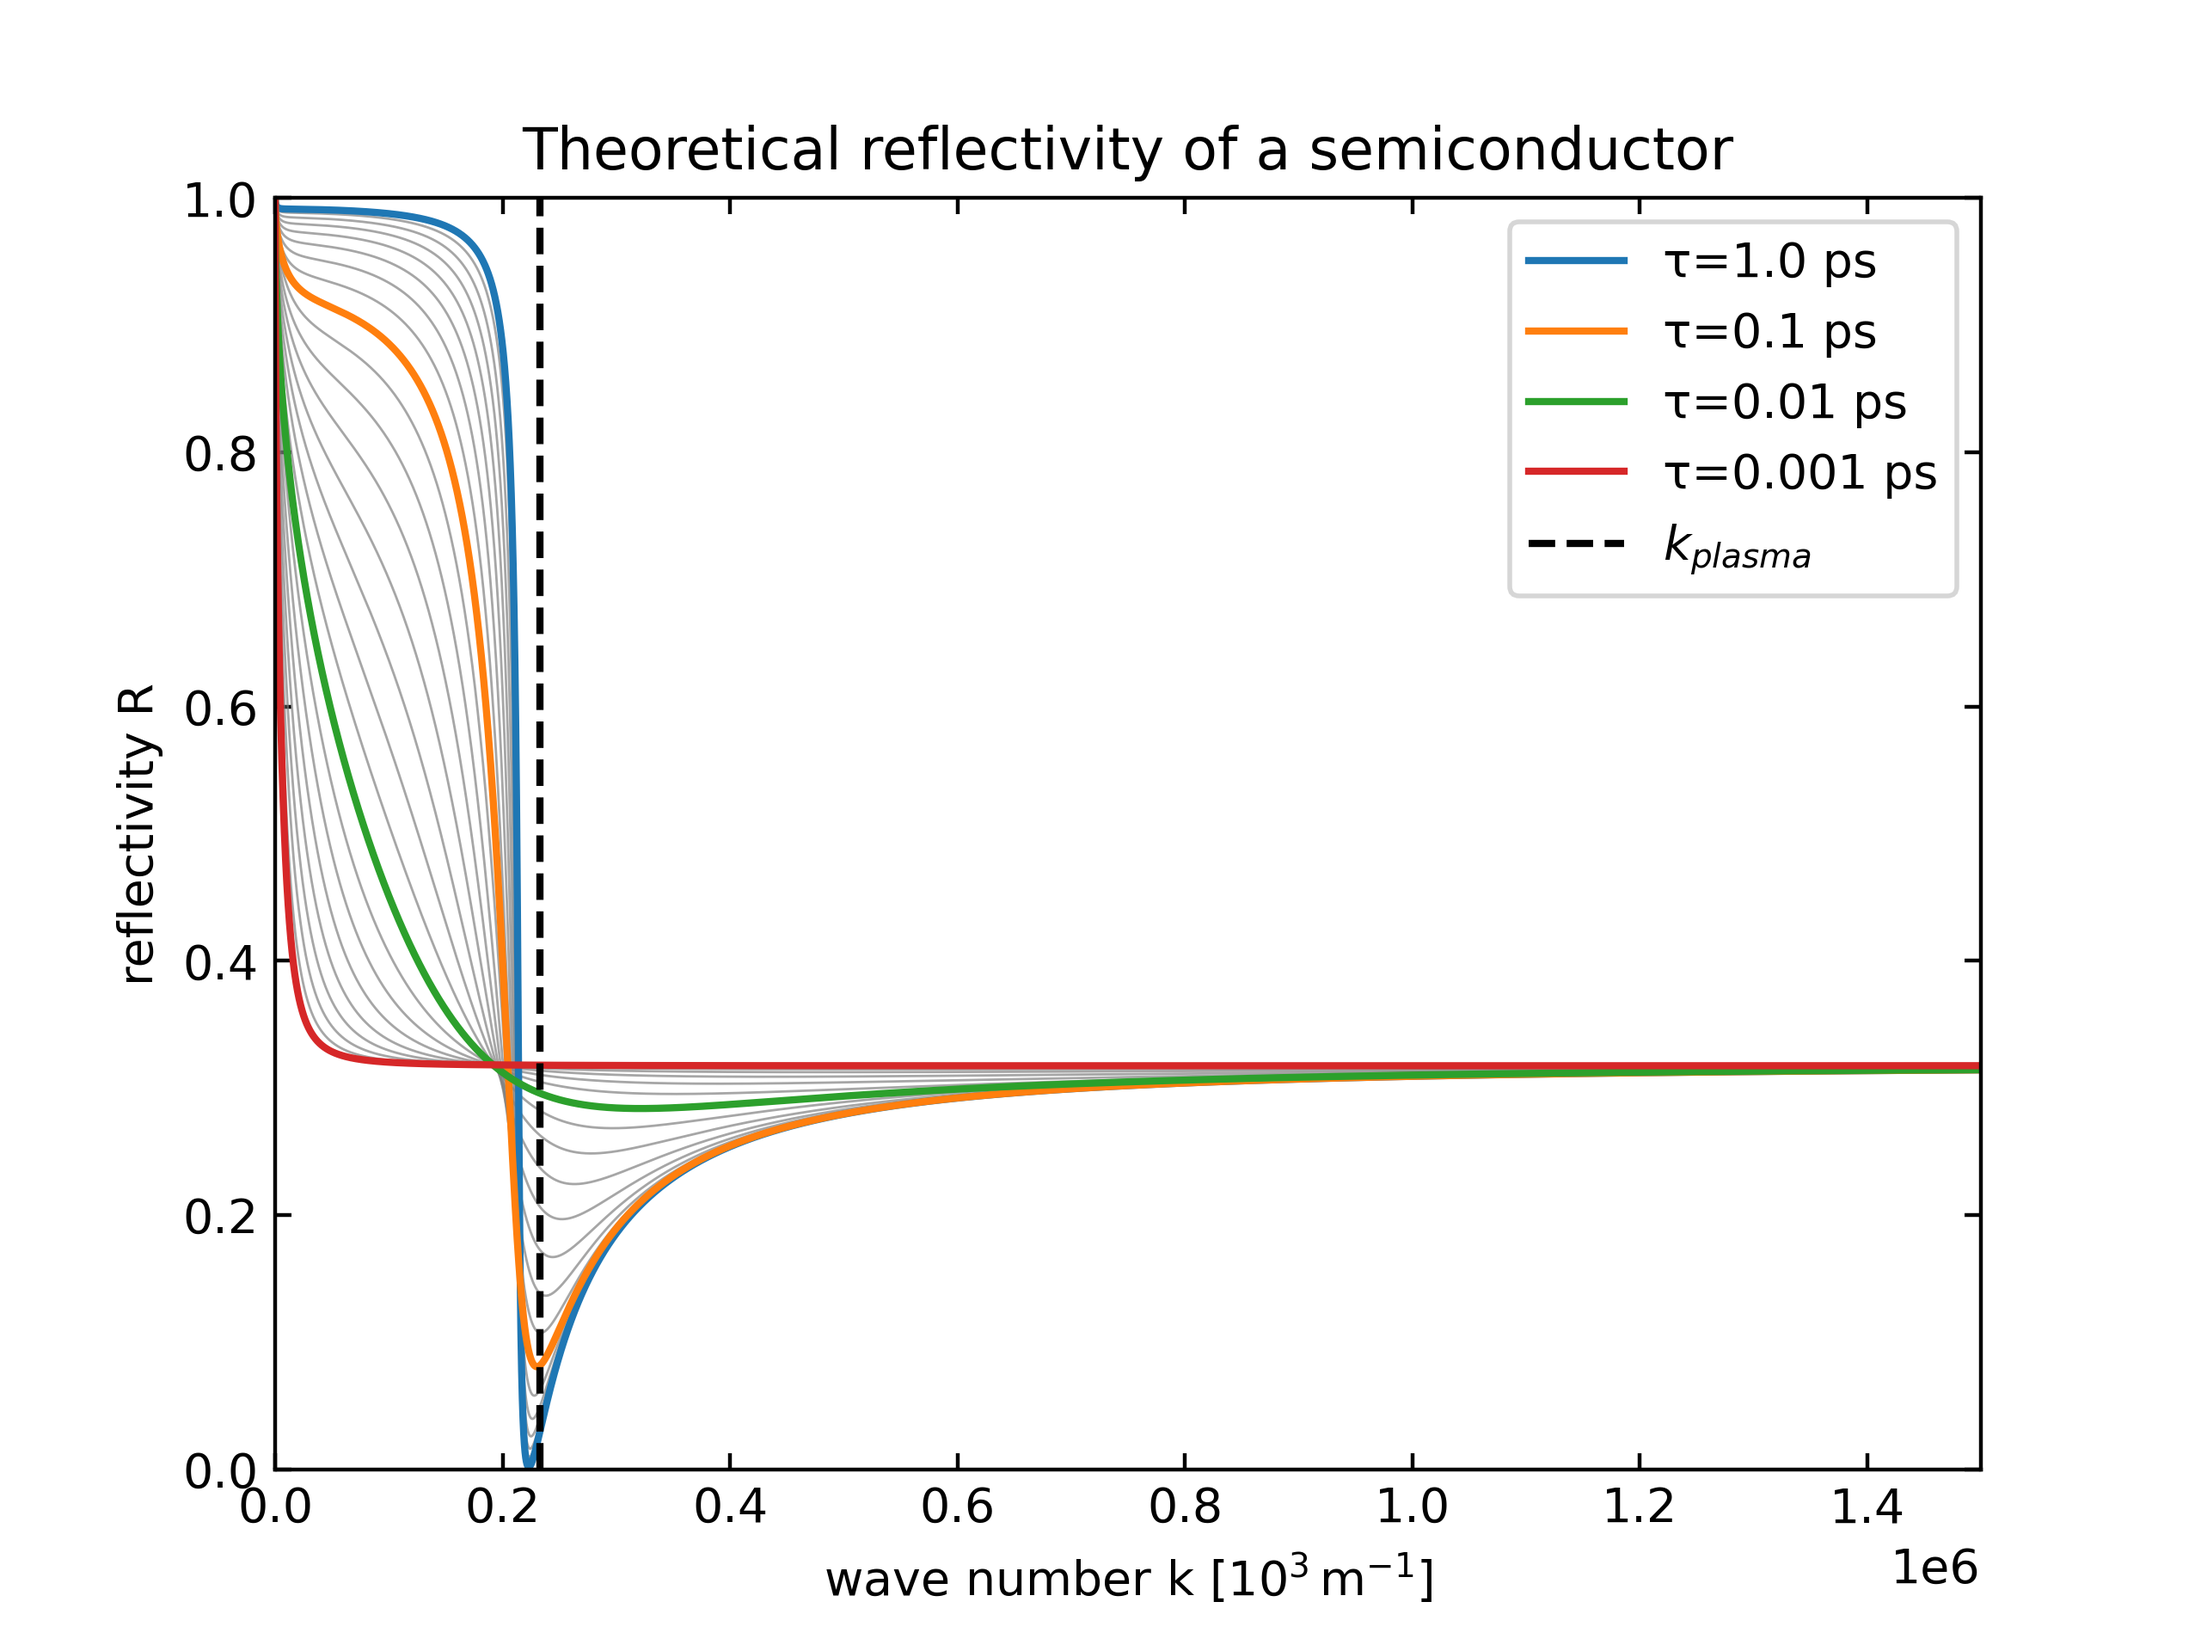
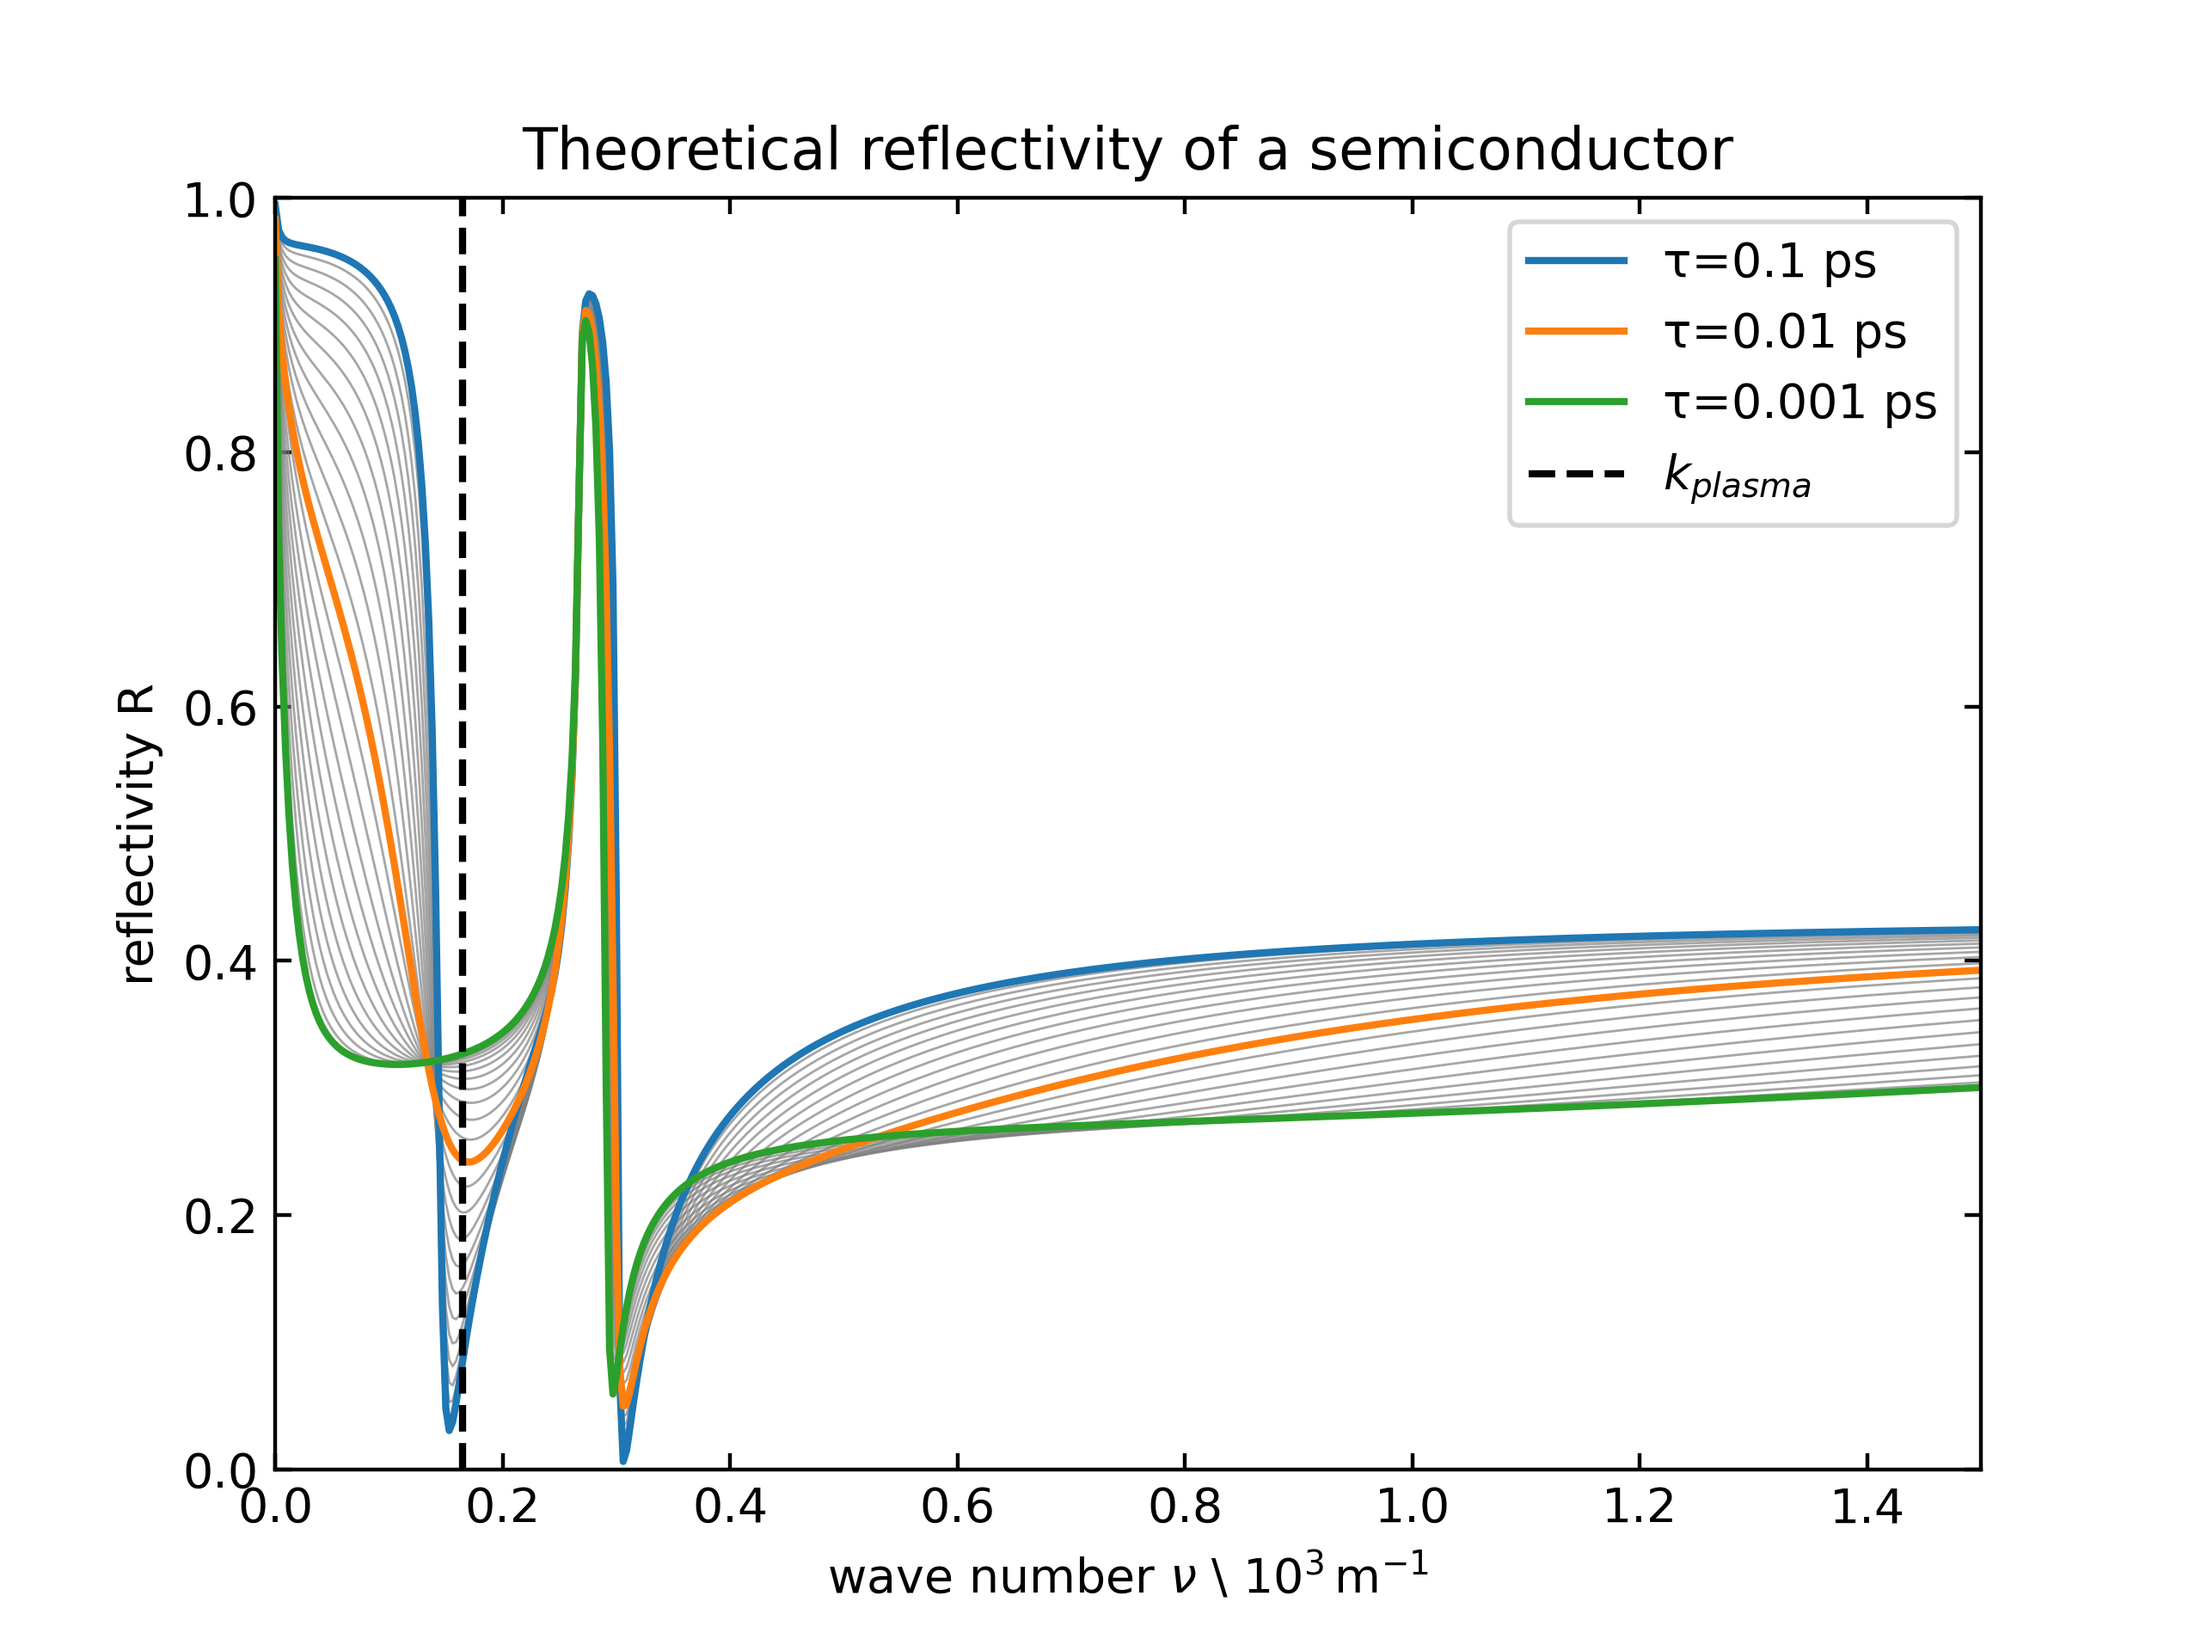
theoretical semiconductor fixed

diff --git a/test/test.py b/test/test.py
@@ -5,86 +5,74 @@ import os, sys
 sys.path.insert(1, "/".join(os.path.realpath(__file__).split("/")[0:-2]))
 from macroswriter import writeLatexMacro
 
+e = const.e
+m_eff = 1 * const.m_e
+epsilon_0 = const.epsilon_0
+tau2 = 0.1 * 10**-12
+tau3 = 0.01 * 10**-12
+tau4 = 0.001 * 10**-12
+c = const.c
+d = 500 * 10**-6
+k_max_semicon = 1500000
+epsilon_inf = 10.89
+omega_LO = 2 * np.pi * 36.1 * 10**-3 / const.h
+omega_TO = 2 * np.pi * 33.2 * 10**-3 / const.h
+gamma = 2.5 * 100
+N_DichteSemicon = 1.05 * 10**24
+m_eff_Semicon = 0.063 * const.m_e
 
-# e = const.e
-# m_eff = 1*const.m_e
-# epsilon_0 = const.epsilon_0
-# N_Dichte = 5.9*10**28
-# tau1 = 1*10**-12
-# tau2 = 0.1*10**-12
-# tau3 = 0.01*10**-12
-# tau4 = 0.001*10**-12
-# c = const.c
-# d = 500*10**-6 
-# k_max_semicon = 1500000
-# epsilon_inf = 10.89
-# omega_LO = 2 * np.pi * 36.1*10**-3 / const.h
-# omega_TO = 2 * np.pi * 33.2*10**-3 / const.h
-# gamma = 2.5 * 100
-# N_DichteSemicon = 1.05*10**24 
-# m_eff_Semicon = 0.063 * const.m_e
+k = np.linspace(1, k_max_semicon, 50000)
 
-# k = np.linspace(1, k_max_semicon, 50000)
+def calculateReflectivitySemiconductor(epsilon_inf, omega_LO, omega_TO, gamma, d, k, N_DichteSemicon, tau):
+    nu = 2*np.pi*k
+    omega = 2*np.pi * c
+    epsilon_S = epsilon_inf * (1 + (omega_LO**2 - omega_TO**2) / (omega_TO**2 - omega**2 - 1j * omega * gamma))
+    sigma = (N_DichteSemicon * e**2 * tau) / (m_eff_Semicon) * (1 / (1 - 1j * omega * tau))
+    epsilon = epsilon_S + 1j * sigma / (omega * epsilon_0)
+    kappa = np.imag(np.sqrt(epsilon))
+    n = np.real(np.sqrt(epsilon))
+    beta = 4 * np.pi * kappa * omega
+    rh = np.abs((np.sqrt(epsilon) - 1) / (np.sqrt(epsilon) + 1))**2
+    R_S = rh + ((1-rh)**2*rh*np.exp(-2*beta*d))/(1-rh**1*np.exp(-2*beta*d))
+    return R_S
 
-# def calculateReflectivitySemiconductor(epsilon_inf, omega_LO, omega_TO, gamma, d, k, N_DichteSemicon, tau):
-#     omega = k * c
-#     epsilon_S = epsilon_inf * (1 + (omega_LO**2 - omega_TO**2) / (omega_TO**2 - omega**2 - 1j * omega * gamma))
-#     sigma = (N_DichteSemicon * e**2 * tau) / (m_eff_Semicon) * (1 / (1 - 1j * omega * tau))
-#     epsilon = epsilon_S + 1j * sigma / (omega * epsilon_0)
-#     kappa = np.imag(np.sqrt(epsilon))
-#     n = np.real(np.sqrt(epsilon))
-#     beta = 4 * np.pi * kappa * omega
-#     rh = np.abs((np.sqrt(epsilon) - 1) / (np.sqrt(epsilon) + 1))**2
-#     R_S = rh * (1 + np.exp(-2 * beta * d) - 2 * rh * np.exp(-2 * beta * d)) / (1 - (rh**2) * np.exp(-2 * beta * d))
-#     return R_S
+def calculateKPlasmaSemiconductor(N_DichteSemicon, m_eff_Semicon, epsilon_0, epsilon_inf):
+    omega_plasma_semicon = np.sqrt((N_DichteSemicon * e**2) / (m_eff_Semicon * epsilon_0 * epsilon_inf))
+    k_plasma_semicon = omega_plasma_semicon / c
+    return k_plasma_semicon
 
-# def calculateKPlasmaSemiconductor(N_DichteSemicon, m_eff_Semicon, epsilon_0, epsilon_inf):
-#     omega_plasma_semicon = np.sqrt((N_DichteSemicon * e**2) / (m_eff_Semicon * epsilon_0 * epsilon_inf))
-#     k_plasma_semicon = omega_plasma_semicon / c
-#     return k_plasma_semicon
+def plotReflectivitySemiconductor(d, tau2, tau3, tau4, k_max_semicon):
+    k = np.linspace(0.1, k_max_semicon, 500000)  # k wird hier definiert
+    k_plasma_semicon = calculateKPlasmaSemiconductor(N_DichteSemicon, m_eff_Semicon, epsilon_0, epsilon_inf)
 
-# def plotReflectivitySemiconductor(d, tau1, tau2, tau3, tau4, k_max_semicon):
-#     k = np.linspace(0.1, k_max_semicon, 500000)  # k wird hier definiert
-#     k_plasma_semicon = calculateKPlasmaSemiconductor(N_DichteSemicon, m_eff_Semicon, epsilon_0, epsilon_inf)
+    taus = [tau2, tau3, tau4]
+    fig, ax = plt.subplots()
+    tausGray = np.logspace(np.log10(tau2), np.log10(tau4), 25)
+    for tauGray in tausGray:
+        R_S_gray = calculateReflectivitySemiconductor(epsilon_inf, omega_LO, omega_TO, gamma, d, k, N_DichteSemicon, tauGray)
+        ax.plot(k, R_S_gray, color='gray', linewidth=0.5, alpha=0.7)  # Graue Linien
 
-#     taus = [tau1, tau2, tau3, tau4]
-#     fig, ax = plt.subplots()
-#     tausGray = np.logspace(np.log10(tau1), np.log10(tau4), 25)
-#     for tauGray in tausGray:
-#         R_S_gray = calculateReflectivitySemiconductor(epsilon_inf, omega_LO, omega_TO, gamma, d, k, N_DichteSemicon, tauGray)
-#         ax.plot(k, R_S_gray, color='gray', linewidth=0.5, alpha=0.7)  # Graue Linien
+    for tau in taus:
+        R_S = calculateReflectivitySemiconductor(epsilon_inf, omega_LO, omega_TO, gamma, d, k, N_DichteSemicon, tau)
+        ax.plot(k, R_S, label=f'τ={tau*10**12} ps')  # Hauptkurven
 
-#     for tau in taus:
-#         R_S = calculateReflectivitySemiconductor(epsilon_inf, omega_LO, omega_TO, gamma, d, k, N_DichteSemicon, tau)
-#         ax.plot(k, R_S, label=f'τ={tau*10**12} ps')  # Hauptkurven
+    # Vertikale gestrichelte Linie bei k_plasma_semicon
+    plt.axvline(x=k_plasma_semicon, color='black', linestyle='--', label=r'$k_{plasma}$')
 
-#     # Vertikale gestrichelte Linie bei k_plasma_semicon
-#     plt.axvline(x=k_plasma_semicon , color='black', linestyle='--', label=r'$k_{plasma}$')
+    # Achsentitel und Bereich anpassen
+    plt.xlabel(r'wave number k [$10^3 \, \mathrm{m}^{-1}$]')
+    plt.ylabel('reflectivity R')
+    plt.title('Theoretical reflectivity of a semiconductor')
+    plt.legend()
+    plt.tick_params(axis='both', direction='in', which='both', top=True, right=True)
+    plt.xlim(left=0, right=1.5 * 10**6)
+    plt.ylim(bottom=0, top=1)
 
-#     # Achsentitel und Bereich anpassen
-#     plt.xlabel(r'wave number k [$10^3 \, \mathrm{m}^{-1}$]')
-#     plt.ylabel('reflectivity R')
-#     plt.title('Theoretical reflectivity of a semiconductor')
-#     plt.legend()
-#     plt.tick_params(axis='both', direction='in', which='both', top=True, right=True)
-#     plt.xlim(left=0, right=1.5*10**6)
-#     plt.ylim(bottom=0, top=1)
+    plt.savefig('Paper/Images/semi.png', dpi=400)
+    from PIL import Image
+    Image.open("Paper/Images/semi.png").show()
+    plt.clf()
 
-#     plt.savefig('Paper/Images/semi.png', dpi=400)
-#     from PIL import Image
-#     Image.open("Paper/Images/semi.png").show()
-#     plt.clf()
+plotReflectivitySemiconductor(d, tau2, tau3, tau4, k_max_semicon)
 
-
-#plotReflectivitySemiconductor(d, tau1, tau2, tau3, tau4, k_max_semicon)
-
-value = 1.2960032241541408
-error = 1
-
-print(f"{value:.2}")
-print(f"{value:.2f}")
-print(f"{value:.1e}")
-print(int(f"{value:.2e}".split('e')[1]))
-
-writeLatexMacro("test", value, "sees", error)
 

diff --git a/SolidStateOptics/Theory/TheoreticalCurveReflectionSemiconductor.py b/SolidStateOptics/Theory/TheoreticalCurveReflectionSemiconductor.py
@@ -9,7 +9,6 @@ e = const.e
 m_eff = 1*const.m_e
 epsilon_0 = 1.66818
 N_Dichte = 5.9*10**28
-tau1 = 1
 tau2 = 0.1
 tau3 = 0.01
 tau4 = 0.001
@@ -44,13 +43,13 @@ def calculateKPlasmaSemiconductor(N_DichteSemicon, esquared, m_eff_Semicon, epsi
     k_plasma_semicon = omega_plasma_semicon  # Keine zusätzliche Umrechnung
     return k_plasma_semicon
 
-def plotReflectivitySemiconductor(d, tau1, tau2, tau3, tau4, k_max_semicon):
+def plotReflectivitySemiconductor(d, tau2, tau3, tau4, k_max_semicon):
     k = np.linspace(0.1, k_max_semicon, 500000)  # k wird hier definiert
     k_plasma_semicon = calculateKPlasmaSemiconductor(N_DichteSemicon, esquared, m_eff_Semicon, epsilon_0, epsilon_r)
 
-    taus = [tau1, tau2, tau3, tau4]
+    taus = [tau2, tau3, tau4]
     fig, ax = plt.subplots()
-    tausGray = np.logspace(np.log10(tau1), np.log10(tau4), 25)
+    tausGray = np.logspace(np.log10(tau2), np.log10(tau4), 25)
     for tauGray in tausGray:
         R_S_gray = calculateReflectivitySemiconductor(epsilon_r, omega_LO, omega_TO, gamma, d, k, N_DichteSemicon, tauGray)
         ax.plot(k / 1000, R_S_gray, color='gray', linewidth=0.5, alpha=0.7)  # Graue Linien
@@ -63,7 +62,7 @@ def plotReflectivitySemiconductor(d, tau1, tau2, tau3, tau4, k_max_semicon):
     plt.axvline(x=k_plasma_semicon / 1000, color='black', linestyle='--', label=r'$k_{plasma}$')
 
     # Achsentitel und Bereich anpassen
-    plt.xlabel(r'wave number k [$10^3 \, \mathrm{m}^{-1}$]')
+    plt.xlabel(r'wave number $\nu$ \ $10^3 \, \mathrm{m}^{-1}$')
     plt.ylabel('reflectivity R')
     plt.title('Theoretical reflectivity of a semiconductor')
     plt.legend()
@@ -77,7 +76,7 @@ def plotReflectivitySemiconductor(d, tau1, tau2, tau3, tau4, k_max_semicon):
     plt.clf()
 
 
-plotReflectivitySemiconductor(d, tau1, tau2, tau3, tau4, k_max_semicon)
+plotReflectivitySemiconductor(d, tau2, tau3, tau4, k_max_semicon)
 
 
 

diff --git a/Paper/Experiment.tex b/Paper/Experiment.tex
@@ -112,7 +112,7 @@ This contains of about $50$ to $70$ oscillations and is done for different waven
 Negligible influences on the error are, for example, 
 the picket fence effect or the change in wavelength over the spectral range. 
 The most significant contribution to the error is the inhomogeneity of the sample thickness, 
-which is assumed to be $2\%$. For GaSb it is not possible to calculate the refractive index because of the ????.
+which is assumed to be $2\%$. For GaSb it is not possible to calculate the refractive index because of the ???.
 
 \subsection{Reflection and transmission at low resolution}\label{sec:RTlowRes}
 The reflection and transmission spectra shown in fig.\,\ref{fig:highResRef} and \ref{fig:highResTrans} 
@@ -220,8 +220,8 @@ of the intrinsic materials are given in tab.\ref{tab:literaturedirectBandgapPuls
     \centering
     \begin{tabular}{c|c}
         \hline\hline
-        $E_\text{g}$ (GaAs undoped) & $1.424\,\text{eV}$ \\ \hline
-        $E_\text{g}$ (GaSb undoped) & $0.726\,\text{eV}$   \\ \hline\hline
+        $E_\text{g}$ (GaAs undoped) & $\bandgapSiUndoped$ \\ \hline
+        $E_\text{g}$ (GaSb undoped) & $\bandgapGaAsUndoped$   \\ \hline\hline
     \end{tabular}
     \caption{Bandgap energies for intrinsic GaAs and GaSb at room temperature \cite{ioffe}.}
     \label{tab:literaturedirectBandgapPulseMatrixElement}

diff --git a/Paper/macros.tex b/Paper/macros.tex
@@ -12,3 +12,4 @@
 %\newcommand{\bandgapSiUndoped}{\left(1.066\right)} \cdot 10^{0}\,\text{eV}
 %Die Klammer vor dem \cdot müsste aber eigentlich aber ganz nach hinten. 
 %Das hab ich jetzt mal manuell gemacht weil ich nicht in deinem Macroswriter rumpfuschen wollte.
+\newcommand{\test}{\left(1.3 \pm 1.0\right) \cdot 10^{0}}\,\text{sees}
